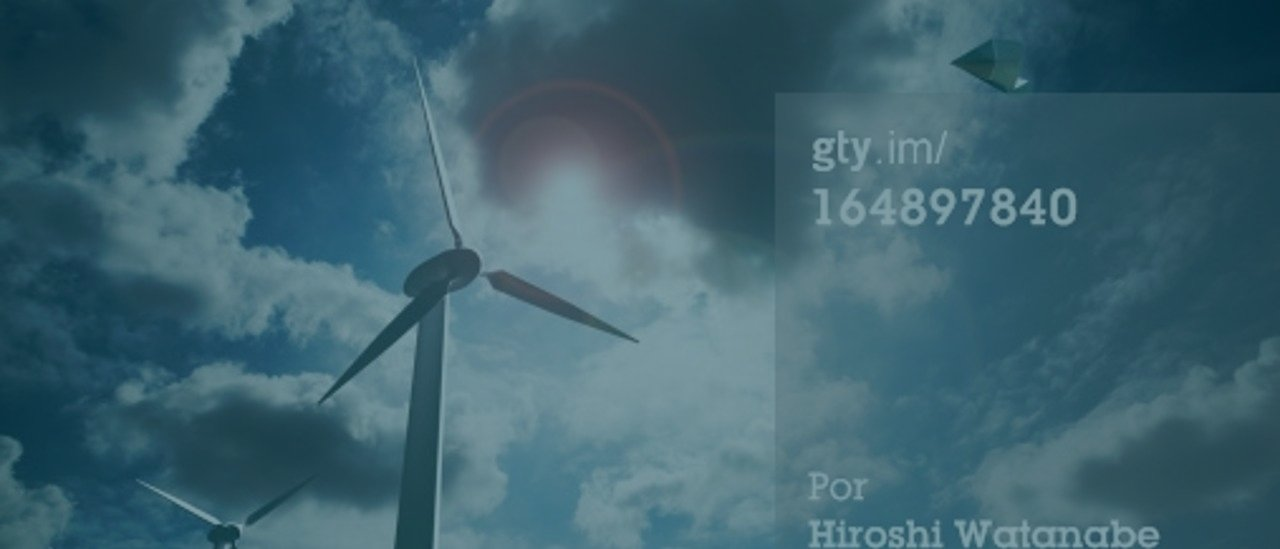
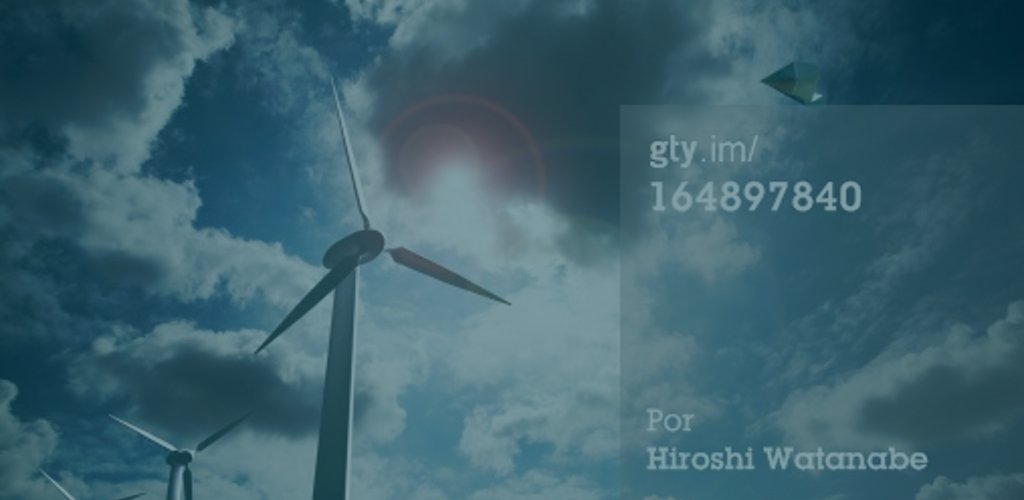
revisats els slides i ajustada la home, sense icones.

diff --git a/assets/css/app.css b/assets/css/app.css
@@ -25,27 +25,50 @@ img {
 
 #myCarouselHomeVortex .carousel-caption {
   z-index: 10;
-  top:0;
+  bottom:0;
+  padding-top: 0;
+  top: 0;
   text-align: left;
   text-shadow:none;
 }
+#myCarouselHomeVortex .carousel-caption a {
+  color: #ffffff;
+  text-decoration: none;
+  border-bottom: 2px solid #ffffff;
+  -webkit-opacity: 0.5;
+     -moz-opacity: 0.5;
+          opacity: 0.5;
+  -webkit-transition: all 1s ease-in-out;
+     -moz-transition: all 1s ease-in-out;
+      -ms-transition: all 1s ease-in-out;
+       -o-transition: all 1s ease-in-out;
+          transition: all 1s ease-in-out;
+}
+#myCarouselHomeVortex .carousel-caption a:hover {
+  border-bottom: 4px solid #ffffff;
+  -webkit-opacity: 1;
+     -moz-opacity: 1;
+          opacity: 1;
+}
 #myCarouselHomeVortex .carousel-indicators {
-  top:20px;
+  bottom:20px;
 }
 #myCarouselHomeVortex .carousel-caption h1, #myCarouselHomeVortex .carousel-caption h4 {
   color: #ffffff;
 }
 
 #myCarouselHomeVortex.carousel .item {
-  min-height: 200px;
+  min-height: 400px;
   background-color: rgba(0,60,76,1);
 }
 
-#myCarouselHomeVortex .carousel-inner > .item > img {
+#myCarouselHomeVortex .carousel-inner .item .container img {
   position: absolute;
   top: 0;
   left: 0;
   min-width: 100%;
+  display: none;
+  height: 500px;
 }
 
 /* ---- marketsIconHome ---- */
@@ -613,6 +636,12 @@ width: 90px!important;
 } 
 }
 
+@media (min-width: 480px) {
+#myCarouselHomeVortex.carousel .item {
+  min-height: 300px;
+}
+}
+
 @media (min-width: 768px) {
 header[role="banner"] div.navbar {
   padding-top: 25px;
@@ -635,16 +664,18 @@ main[role="main"] {
 .vortex-icon {
   margin-bottom: 1em;
 }
+#myCarouselHomeVortex .carousel-inner .item .container img {
+  display: block;
+}
+  #myCarouselHomeVortex.carousel .item {
+  height: 500px;
+}
 }
 
 @media screen and (min-width: 1024px) {
  body.vx-comunicacio,body.vx-infraestructura {
       background: url(/assets/img/banner-barcelona-lg.jpg) no-repeat 50% 8%;
-  } 
-
-  #myCarouselHomeVortex.carousel .item {
-  height: 400px;
-}
+  }
 #marketsIconHome {
   background: none;
   max-width: 970px;

diff --git a/index.html b/index.html
@@ -39,18 +39,25 @@ keywords: online, wind, modeling, forecast, solar, offshore
 					<div class="container">
 						<img src="{{site.baseurl}}/assets/img/{{post.featured-img-url}}">
 			            <div class="carousel-caption">
-			              <h1>{{ post.title }}</h1>
-			              <h4>{{ post.excerpt }}</h4>
+			              	<h1>
+			              	{% if post.title == 'Vortex' %}
+				              	<strong>{{ post.title }}</strong>, {{ post.subtitle }}
+				             {% else if %}
+				             	<a href="{{site.baseurl}}/markets/{{ post.url }}.html"><strong>{{ post.title }}</strong></a>, {{ post.subtitle }}
+				             {% endif %}
+			              	</h1>
+			              	<h4>{{ post.excerpt }}</h4>
 			            </div>
 			         </div>	
 					
 					{% else if %}
 					<div class="container">
 			            <div class="carousel-caption">
-			              <h1>{{ post.title }}</h1>
-			              <p>{{ post.excerpt }}</p>
+			              	<h1>
+				              	<a href="{{site.baseurl}}/markets/{{ post.url }}.html"><strong>{{ post.title }}</strong>, {{ post.subtitle }}</a>
+		              		</h1>
+			              	<h4>{{ post.excerpt }}</h4>
 			            </div>
-			         </div>	
 					
 					{% endif %}
 				</div>
@@ -63,7 +70,7 @@ keywords: online, wind, modeling, forecast, solar, offshore
 
 	<!-- iconMarkets
 	================================================== -->
-	<div id="marketsIconHome" class="container blau-vortex">
+	<!-- <div id="marketsIconHome" class="container blau-vortex">
   		<div class="row">
   			<div class="col-md-3 col-sm-6">
 			    <div class="vortex-icon wind-site-icon">
@@ -86,7 +93,7 @@ keywords: online, wind, modeling, forecast, solar, offshore
 				</div>
 			</div>
 		</div>
-	</div>
+	</div> -->
 
 	<div class="container">
 

diff --git a/_layouts/default.html b/_layouts/default.html
@@ -23,15 +23,16 @@
             </div>
             <div class="col-sm-1 col-lg-1">
               <p>
-                <small><strong>Home</strong></small>
+                <small><a href="/"><strong>Home</strong></a></small>
               </p>
             </div>
             <div class="col-sm-1 col-lg-1">
               <p>
-                <small><strong>Markets</strong>
-                  <br/>Wind & site
-                  <br/>Forecast
-                  <br/>Offshore
+                <small><a href="{{ site.base_url }}/markets/"><strong>Markets</strong></a>
+                  <br/><a href="{{ site.base_url }}/markets/wind-and-site.html">Wind & site</a>
+                  <br/><a href="{{ site.base_url }}/markets/forecast.html">Forecast</a>
+                  <br/><a href="{{ site.base_url }}/markets/solar.html">Solar</a>
+                  <br/><a href="{{ site.base_url }}/markets/offshore.html">Offshore</a>
                   <br/>References
                 </small>
               </p>
@@ -62,7 +63,10 @@
             <div class="col-sm-1 col-lg-1">
               <p><small><strong>Get Started</strong></small></p>
             </div>
-            <div class="col-sm-2 col-lg-2 col-sm-offset-2 col-lg-offset-2">
+            <div class="col-sm-1 col-lg-1">
+              <p><small><a href="{{ site.base_url }}/blog/"><strong>News</strong></a></small></p>
+            </div>
+            <div class="col-sm-2 col-lg-2 col-sm-offset-1 col-lg-offset-1">
               <p><small>&copy; Vortex 2013<br/>Terms of Use Privacy Policy</small></p>
             </div>
             <div class="col-sm-2 col-lg-2">

diff --git a/_layouts/home.html b/_layouts/home.html
@@ -23,15 +23,16 @@
             </div>
             <div class="col-sm-1 col-lg-1">
               <p>
-                <small><strong>Home</strong></small>
+                <small><a href="/"><strong>Home</strong></a></small>
               </p>
             </div>
             <div class="col-sm-1 col-lg-1">
               <p>
-                <small><strong>Markets</strong>
-                  <br/>Wind & site
-                  <br/>Forecast
-                  <br/>Offshore
+                <small><a href="{{ site.base_url }}/markets/"><strong>Markets</strong></a>
+                  <br/><a href="{{ site.base_url }}/markets/wind-and-site.html">Wind & site</a>
+                  <br/><a href="{{ site.base_url }}/markets/forecast.html">Forecast</a>
+                  <br/><a href="{{ site.base_url }}/markets/solar.html">Solar</a>
+                  <br/><a href="{{ site.base_url }}/markets/offshore.html">Offshore</a>
                   <br/>References
                 </small>
               </p>
@@ -62,7 +63,10 @@
             <div class="col-sm-1 col-lg-1">
               <p><small><strong>Get Started</strong></small></p>
             </div>
-            <div class="col-sm-2 col-lg-2 col-sm-offset-2 col-lg-offset-2">
+            <div class="col-sm-1 col-lg-1">
+              <p><small><a href="{{ site.base_url }}/blog/"><strong>News</strong></a></small></p>
+            </div>
+            <div class="col-sm-2 col-lg-2 col-sm-offset-1 col-lg-offset-1">
               <p><small>&copy; Vortex 2013<br/>Terms of Use Privacy Policy</small></p>
             </div>
             <div class="col-sm-2 col-lg-2">

diff --git a/_posts/2013-09-29-prova-noticia.md b/_posts/2013-09-29-prova-noticia.md
@@ -1,0 +1,19 @@
+---
+comments: true
+date: 2013-09-29 09:48:19
+layout: blog
+slug: prova-de-noticia
+title: News test
+categories: [infraestructura, general, no-cita]
+tags:
+excerpt: Vortex started its technology development in 2007 by former Wind&Site engineers (with more than 20 years of experience), atmospheric physicists and computer experts
+meta: Prova de notícia
+author: vortex
+keywords: vortex, company, experience, independence, collaborative
+---
+
+## Prova de notícia
+
+Vortex started its technology development in 2007 by former Wind&Site engineers (with more than 20 years of experience), atmospheric physicists and computer experts in a unusual collaborative team of experienced professionals with active researchers. Our products have been designed after intensive dialog with the wind industry and we benefit from a users continuous feedback.
+
+Vortex is a private company, owned by its members and independent of any investment fund or consultancy firm. We have developed our own technology and do not depend on third parties to modify it. At Vortex we are not alone: our technology is based on WRF, a state-of-the-art non-linear flow code developed through a collaborative effort by several atmospheric research centers and an active community.

diff --git a/_posts/2013-09-30-prova-noticia.md b/_posts/2013-09-30-prova-noticia.md
@@ -1,0 +1,19 @@
+---
+comments: true
+date: 2013-09-30 09:48:19
+layout: blog
+slug: prova-de-noticia
+title: News test
+categories: [infraestructura, general, no-cita]
+tags:
+excerpt: Vortex started its technology development in 2007 by former Wind&Site engineers (with more than 20 years of experience), atmospheric physicists and computer experts
+meta: Prova de notícia
+author: vortex
+keywords: vortex, company, experience, independence, collaborative
+---
+
+## Prova de notícia
+
+Vortex started its technology development in 2007 by former Wind&Site engineers (with more than 20 years of experience), atmospheric physicists and computer experts in a unusual collaborative team of experienced professionals with active researchers. Our products have been designed after intensive dialog with the wind industry and we benefit from a users continuous feedback.
+
+Vortex is a private company, owned by its members and independent of any investment fund or consultancy firm. We have developed our own technology and do not depend on third parties to modify it. At Vortex we are not alone: our technology is based on WRF, a state-of-the-art non-linear flow code developed through a collaborative effort by several atmospheric research centers and an active community.

diff --git a/_posts/slides/0001-01-01-home.md b/_posts/slides/0001-01-01-home.md
@@ -1,6 +1,7 @@
 ---
 
-title: Modelling for professionals, by professionals
+title: Vortex
+subtitle: modelling for professionals, by professionals
 categories: slideshow
 tags: slideshow
 featured-img: true

diff --git a/_posts/slides/0001-01-04-forecast.md b/_posts/slides/0001-01-04-forecast.md
@@ -1,6 +1,7 @@
 ---
 
-title: Forecast, like it will be in the future
+title: Forecast
+subtitle: like it will be in the future
 categories: slideshow
 tags: slideshow
 featured-img: true

diff --git a/_posts/slides/0001-01-05-wind-and-site.md b/_posts/slides/0001-01-05-wind-and-site.md
@@ -1,6 +1,7 @@
 ---
 
-title: Wind & Site, one-click away
+title: Wind & Site
+subtitle: one-click away
 categories: slideshow
 tags: slideshow
 featured-img: true

diff --git a/_posts/slides/0001-01-02-offshore.md b/_posts/slides/0001-01-02-offshore.md
@@ -1,6 +1,7 @@
 ---
 
-title: Off-shore, treated on-line
+title: Off-shore
+subtitle: treated on-line
 categories: slideshow
 tags: slideshow
 featured-img: true

diff --git a/_posts/slides/0001-01-03-solar.md b/_posts/slides/0001-01-03-solar.md
@@ -1,6 +1,7 @@
 ---
 
-title: Solar, the primary source
+title: Solar
+subtitle: the primary source
 categories: slideshow
 tags: slideshow
 featured-img: true
